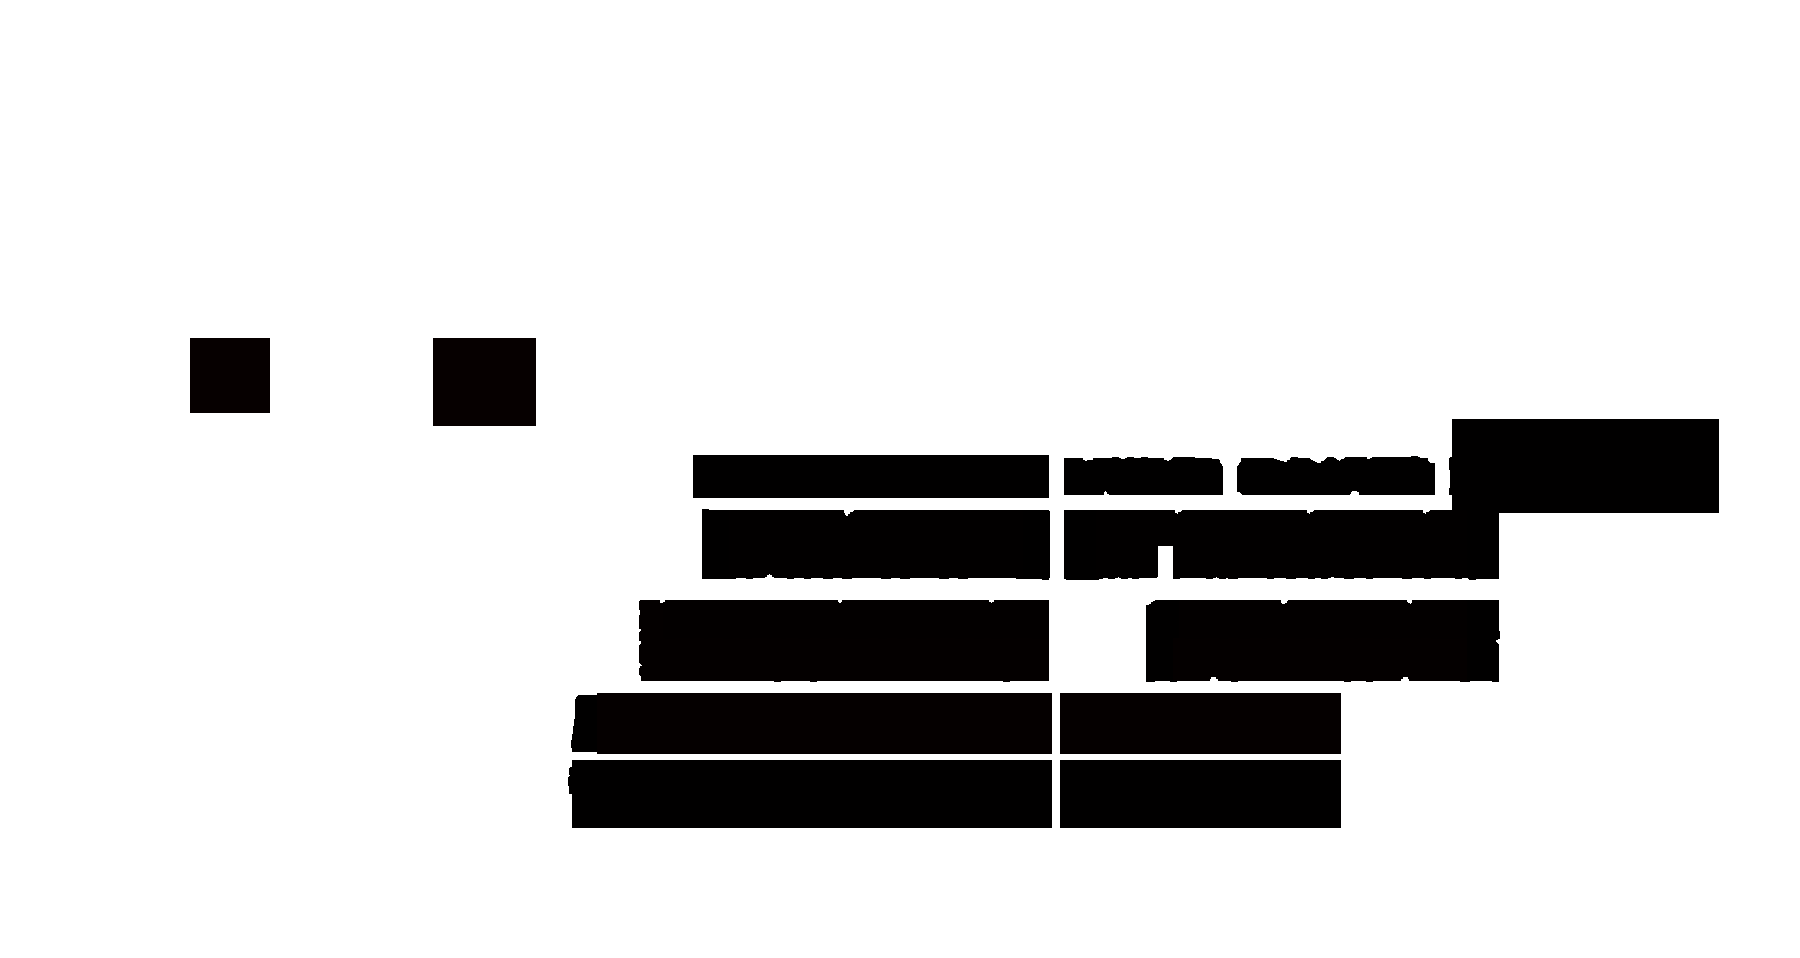
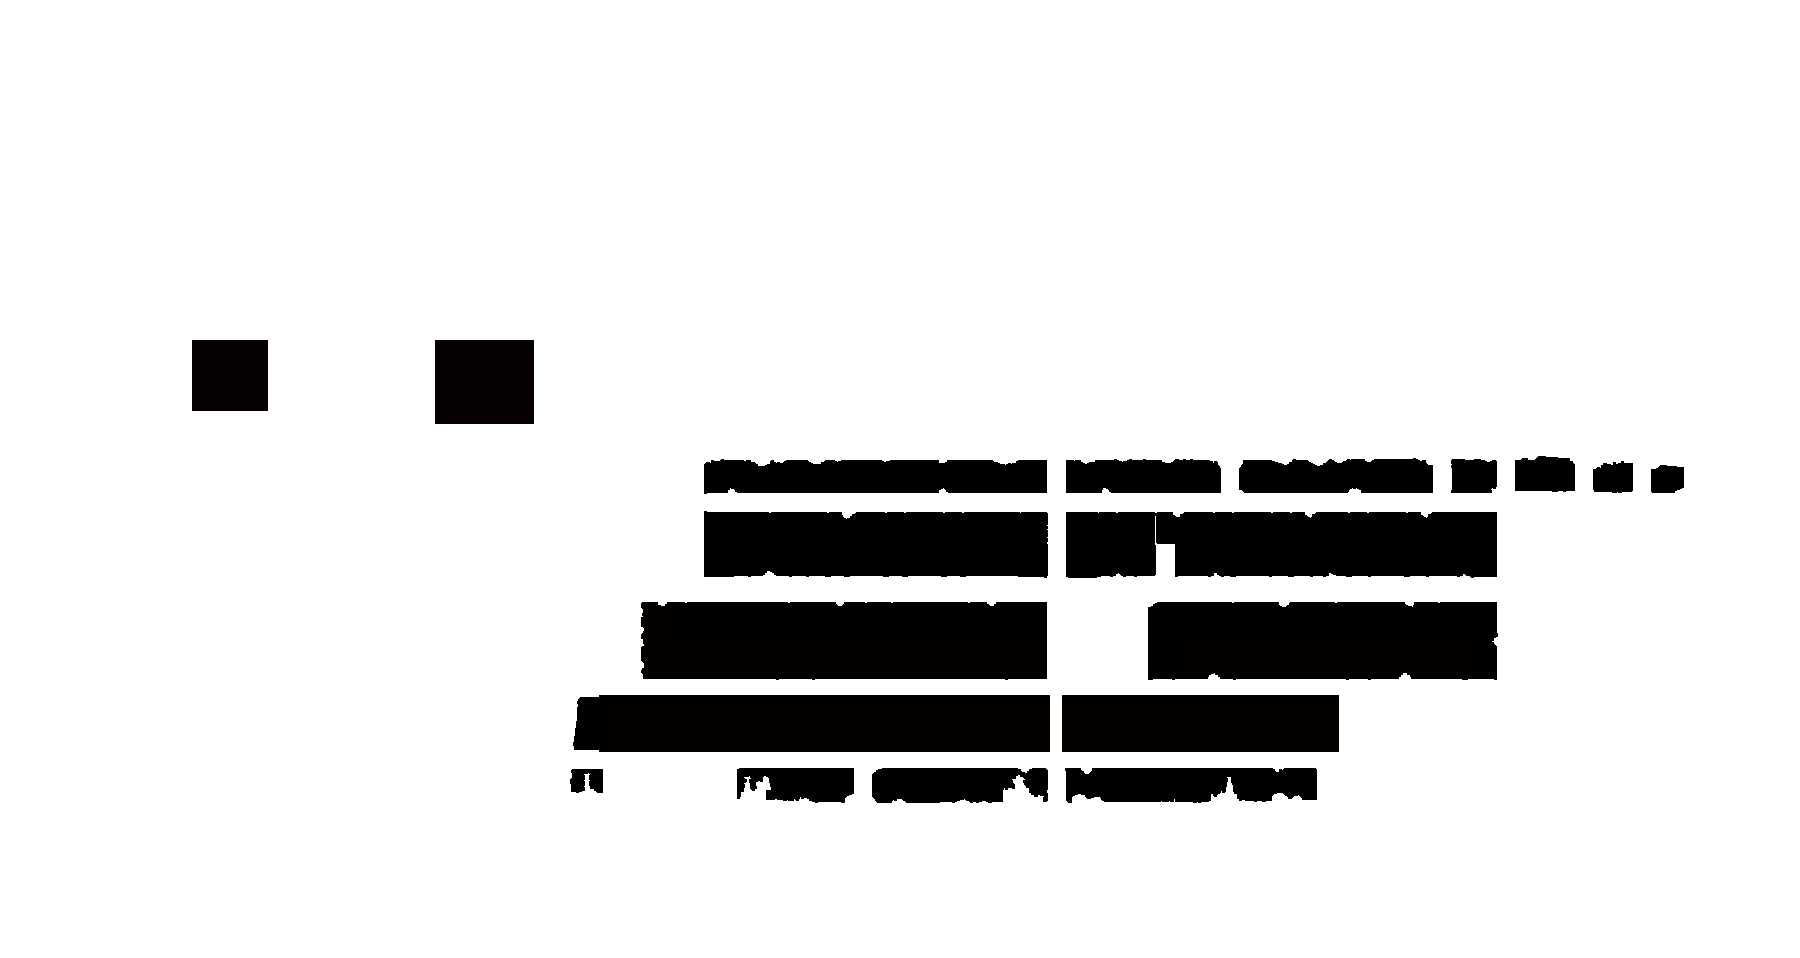
Large content/copy/hover pass across most sections
Intro:
- Force "A life of serenity within." / "A world of possibility
  around." onto separate lines
- Remove the "This is Trivik Courtyard." line
- Bold "At Trivik Courtyard, everything happens around you."

Location:
- Remove "THE LOCATION" eyebrow; "Your world, within minutes."
  is now the sole (black) heading
- "Beerasandra, North Bengaluru" moved below the description
  paragraph as small centred text
- Added a 5th highlight card (15 min -> Manipal Hospital),
  grid now 5-across; dropped "operational" from "ITIR · Foxconn"

Master Plan:
- Removed "THE MASTER PLAN" eyebrow
- Hover/tap reverted to the dim-and-cutout style: the rest of the
  plan dims, the selected category's plots stay fully lit at their
  true colours, no border at all

Gallery: removed the "GALLERY" eyebrow

Clubhouse: eyebrow text changed to "Club Aurum" (matches the
building's own signage), coloured white on the desktop overlay;
stats updated to "40+ Amenities" / "25+ Indoor Amenities"

Amenities: copy updated to "40+ indoor and outdoor spaces..."

Landscape: "Landscape & Avenue Plantation" now matches "Landscape &
Internal Roads" in size; enlarged the caption text overlaid on the
avenue-plantation banner image; removed the "TRIVIK COURTYARD"
eyebrow above "Landscape & Internal Roads"

Specifications: "Our Services" renamed to "Utilities" with a
water-drop icon; reordered its content blocks so "Services" balances
into the left column instead of stacking under "Plumbing" on the
right
[…]

diff --git a/client/src/styles/global.css b/client/src/styles/global.css
@@ -868,19 +868,6 @@ h3 {
   max-width: 1300px;
   margin: 0 auto 30px;
 }
-.loc2-eyebrow {
-  display: inline-block;
-  font-size: clamp(20px, 2.9vw, 45px);
-  font-weight: 700;
-  letter-spacing: 2.4px;
-  text-transform: uppercase;
-  color: var(--brown);
-  margin-bottom: 12px;
-  white-space: nowrap;
-}
-@media (max-width: 1150px) {
-  .loc2-eyebrow { white-space: normal; }
-}
 .loc2-head h3 {
   font-size: 38px;
   font-weight: 600;
@@ -896,10 +883,19 @@ h3 {
   max-width: 560px;
   margin-inline: auto;
 }
+.loc2-subplace {
+  display: block;
+  margin-top: 10px;
+  font-size: 13px;
+  font-weight: 600;
+  letter-spacing: 1.2px;
+  text-transform: uppercase;
+  color: #8a8178;
+}
 
 .loc2-highlights {
   display: grid;
-  grid-template-columns: repeat(4, 1fr);
+  grid-template-columns: repeat(5, 1fr);
   gap: 14px;
   margin-bottom: 30px;
 }
@@ -1497,11 +1493,6 @@ h3 {
 }
 
 .dfl-head { text-align: center; margin-bottom: 2.2em; }
-.dfl-eyebrow {
-  display: inline-block;
-  font-size: 45px; font-weight: 700; letter-spacing: 2.4px;
-  text-transform: uppercase; color: #8b6e4e; margin-bottom: 10px;
-}
 .dfl-head h3 {
   font-size: 38px;
   font-weight: 600; color: #2b2a26; line-height: 1.1; margin-bottom: 8px;
@@ -2058,11 +2049,6 @@ h3 {
   background-color: #F5F4ED;
 }
 .jg-head { text-align: center; margin-bottom: 1.8em; }
-.jg-eyebrow {
-  display: inline-block;
-  font-size: 45px; font-weight: 700; letter-spacing: 2.4px; text-transform: uppercase;
-  color: #8b6e4e; margin-bottom: 10px;
-}
 .jg-head h3 {
   font-size: 38px; font-weight: 600; color: #2b2a26; line-height: 1.15;
 }
@@ -2259,11 +2245,6 @@ h3 {
   max-width: 780px;
   margin: 0 auto 2em;
 }
-.mplan-eyebrow {
-  display: inline-block;
-  font-size: 45px; font-weight: 700; letter-spacing: 2.4px;
-  text-transform: uppercase; color: #8b6e4e; margin-bottom: 10px;
-}
 .mplan-head h3 {
   font-size: 38px;
   font-weight: 600; color: #2b2a26; line-height: 1.12; margin-bottom: 10px;
@@ -2429,7 +2410,7 @@ h3 {
   font-size: 38px; font-weight: 600; line-height: 1.12;
   margin-bottom: 20px;
 }
-.club2-head--desktop .club2-eyebrow { color: #E7D9B4; }
+.club2-head--desktop .club2-eyebrow { color: #fff; }
 .club2-head--desktop h3 { color: #fff; }
 .club2-head--mobile .club2-eyebrow { color: #8b6e4e; }
 .club2-head--mobile h3 { color: #2b2a26; }
@@ -3107,9 +3088,9 @@ h3 {
   margin-bottom: 1.1em;
 }
 .verdant-open-head h3 {
-  font-size: clamp(24px, 2.6vw, 32px);
+  font-size: 38px;
   font-weight: 600;
-  line-height: 1.15;
+  line-height: 1.12;
   color: #2b2a26;
 }
 
@@ -3146,15 +3127,15 @@ h3 {
   color: #fff;
 }
 .verdant-banner-copy h4 {
-  font-size: 15px;
+  font-size: 22px;
   font-weight: 600;
-  line-height: 1.3;
-  margin-bottom: 3px;
+  line-height: 1.25;
+  margin-bottom: 5px;
   color: #fff;
 }
 .verdant-banner-copy p {
   font-family: var(--font);
-  font-size: 12.5px;
+  font-size: 16px;
   line-height: 1.5;
   color: #E6EAD9;
   margin: 0;
@@ -3165,11 +3146,6 @@ h3 {
 }
 
 .verdant-head { text-align: center; margin-bottom: 2.2em; }
-.verdant-eyebrow {
-  display: inline-block;
-  font-size: 45px; font-weight: 700; letter-spacing: 2.4px;
-  text-transform: uppercase; color: #8b6e4e; margin-bottom: 10px;
-}
 .verdant-head h3 {
   font-size: 38px;
   font-weight: 600; color: #2b2a26; line-height: 1.12; margin: 0;
@@ -4658,12 +4634,7 @@ p { font-family: var(--font); }
    section's own (equal-specificity) base rule.
 ============================================================ */
 @media (max-width: 620px) {
-  .loc2-eyebrow,
-  .mplan-eyebrow,
-  .jg-eyebrow,
-  .club2-eyebrow,
-  .verdant-eyebrow,
-  .dfl-eyebrow {
+  .club2-eyebrow {
     font-size: 26px;
   }
   .loc2-head h3,
@@ -4674,13 +4645,4 @@ p { font-family: var(--font); }
   .dfl-head h3 {
     font-size: 22px;
   }
-}
-
-/* Location eyebrow: "Beerasandra, North Bengaluru" breaks onto its own
-   line on phones, same size as "The Location" above it — desktop keeps
-   it all one continuous line at full size. */
-.loc2-eyebrow-br { display: none; }
-@media (max-width: 620px) {
-  .loc2-eyebrow-sub { font-size: 26px; }
-  .loc2-eyebrow-br { display: inline; }
 }

diff --git a/client/src/components/Location.jsx b/client/src/components/Location.jsx
@@ -34,11 +34,19 @@ const CapIcon = () => (
 // Drive times per "Trivik Courtyard — The Master Narrative" (03 · Location).
 // The narrative groups schools and universities at 5–15 min, so the headline
 // figure is the near end of that band, not the 2 min previously shown.
+const HospitalIcon = () => (
+  <svg viewBox="0 0 24 24" width="18" height="18" fill="none" stroke="currentColor" strokeWidth="1.7" strokeLinecap="round" strokeLinejoin="round">
+    <path d="M4 21V8l8-5 8 5v13" />
+    <path d="M9 21v-6h6v6M12 9v4M10 11h4" />
+  </svg>
+)
+
 const HIGHLIGHTS = [
   { icon: <PlaneIcon />, value: 30, unit: 'min', label: 'Kempegowda Intl. Airport' },
-  { icon: <WorkIcon />, value: 5, unit: 'min', label: 'ITIR · Foxconn operational' },
+  { icon: <WorkIcon />, value: 5, unit: 'min', label: 'ITIR · Foxconn' },
   { icon: <CapIcon />, value: 5, unit: 'min', label: 'Leading Schools & Universities' },
   { icon: <RoadIcon />, value: 10, unit: 'min', label: 'Doddaballapur Industrial Area' },
+  { icon: <HospitalIcon />, value: 15, unit: 'min', label: 'Manipal Hospital' },
 ]
 
 // count-up number that animates once its section scrolls into view
@@ -104,18 +112,13 @@ export default function Location() {
         <div className="loc2-stage">
           {/* ── header : centred title, then animated highlight stats ── */}
           <div className="loc2-head">
-            <span className="loc2-eyebrow">
-              The Location{' '}
-              <span className="loc2-eyebrow-sub">
-                Beerasandra,<br className="loc2-eyebrow-br" /> North Bengaluru.
-              </span>
-            </span>
             <h3>Your world, within minutes.</h3>
             <p>
               Trivik Courtyard sits directly on the Satellite Town Ring Road, the artery of North
               Bengaluru’s fastest-growing corridor — schools and universities, workplaces, healthcare
               and the airport, all arranged around the community, minutes in every direction.
             </p>
+            <span className="loc2-subplace">Beerasandra, North Bengaluru</span>
           </div>
 
           <div className="loc2-highlights">

diff --git a/client/src/data/contentData.js b/client/src/data/contentData.js
@@ -28,7 +28,7 @@ export const outdoorItems = [
 export const specsTabs = [
   { key: 'infrastructure-tab', label: 'Infrastructure', img: 'images/clubhouse-entry.webp' },
   { key: 'features-tab', label: 'Green Features', img: 'images/spec-green-features.webp' },
-  { key: 'services-tab', label: 'Our Services', img: 'images/services.webp' },
+  { key: 'services-tab', label: 'Utilities', img: 'images/services.webp' },
 ]
 
 export const specsContent = {
@@ -61,6 +61,15 @@ export const specsContent = {
       ],
     },
     {
+      heading: 'Services',
+      points: [
+        'Sewage Treatment Plant.',
+        'Water Treatment Plant with underground sump tank.',
+        'Organic Waste Convertor.',
+        'DG provided for common services.',
+      ],
+    },
+    {
       heading: 'Plumbing',
       points: [
         'Underground dual water supply system.',
@@ -68,15 +77,6 @@ export const specsContent = {
         'Underground sanitary lines connected to a central STP.',
         'Centralized OHT & UG sump of suitable capacity with adequate head/pressure.',
         'Drip irrigation network for the majority of common landscape areas.',
-      ],
-    },
-    {
-      heading: 'Services',
-      points: [
-        'Sewage Treatment Plant.',
-        'Water Treatment Plant with underground sump tank.',
-        'Organic Waste Convertor.',
-        'DG provided for common services.',
       ],
     },
   ],

diff --git a/client/src/components/Clubhouse.jsx b/client/src/components/Clubhouse.jsx
@@ -1,9 +1,9 @@
 // Figures per the official amenities schedule: 14,000 sq.ft clubhouse,
-// 40 curated amenities in all, 25 of them within the clubhouse itself.
+// 40+ amenities in all, 25+ of them within the clubhouse itself.
 const STATS = [
   { v: '14,000', u: 'sq. ft.', l: 'Clubhouse' },
-  { v: '40', u: 'curated', l: 'Amenities' },
-  { v: '25', u: 'facilities', l: 'Within the club' },
+  { v: '40+', u: '', l: 'Amenities' },
+  { v: '25+', u: '', l: 'Indoor Amenities' },
 ]
 
 export default function Clubhouse() {
@@ -31,7 +31,7 @@ export default function Clubhouse() {
           <div className="club2-content">
             {/* desktop-only heading — overlaid on the image, hero-style */}
             <div className="club2-head club2-head--desktop">
-              <span className="club2-eyebrow">The Clubhouse</span>
+              <span className="club2-eyebrow">Club Aurum</span>
               <h3>The soul of the community.</h3>
             </div>
 
@@ -52,7 +52,7 @@ export default function Clubhouse() {
               {STATS.map((s) => (
                 <div className="club2-stat" key={s.l}>
                   <b>
-                    {s.v} <span>{s.u}</span>
+                    {s.v} {s.u && <span>{s.u}</span>}
                   </b>
                   <em>{s.l}</em>
                 </div>

diff --git a/client/src/components/Experience.jsx b/client/src/components/Experience.jsx
@@ -5,7 +5,7 @@ import { useEffect, useRef, useState } from 'react'
 // then exits back out to the left as the next image takes its place.
 const ITEMS = [
   {
-    img: 'images/dfl-plots.webp',
+    img: 'images/masterplan-layout.webp',
     alt: 'Master layout',
     value: '306',
     label: 'Villa Plots',
@@ -26,7 +26,7 @@ const ITEMS = [
     note: 'Wheelchair-accessible and lift-served.',
   },
   {
-    img: 'images/gallery-park.webp',
+    img: 'images/gallery-amphitheatre.webp',
     alt: 'Amenities',
     value: '40',
     label: 'Amenities',
@@ -34,9 +34,9 @@ const ITEMS = [
   },
   {
     img: 'images/dfl-park.webp',
-    alt: 'Courts',
+    alt: 'Theme Parks',
     value: '4',
-    label: 'Courts',
+    label: 'Theme Parks',
     note: 'Green, Play, Zen and Bloom.',
   },
 ]
@@ -117,7 +117,6 @@ export default function Experience() {
     <section className="experience-section dfl" id="experience" ref={rootRef}>
       <div className="container">
         <div className="dfl-head">
-          <span className="dfl-eyebrow">The Development</span>
           <h3>Designed for life.</h3>
           <p>Experience the luxury of ease.</p>
         </div>

diff --git a/client/src/components/Intro.jsx b/client/src/components/Intro.jsx
@@ -4,7 +4,10 @@ export default function Intro() {
     <section className="intro-section fade-up">
       <div className="container">
         <div className="intro-content">
-          <h3>A life of serenity within. A world of possibility around.</h3>
+          <h3>
+            A life of serenity within.<br />
+            A world of possibility around.
+          </h3>
           <p>
             Waking to birdsong and the hush of tree-lined avenues. Mornings that wander past gardens
             and a forest growing a little taller every day, with your children. Beyond the gates, the
@@ -14,8 +17,7 @@ export default function Intro() {
             life can be.
           </p>
           <p>
-            This is Trivik Courtyard. <br />
-            At Trivik Courtyard, everything happens around you.
+            <b>At Trivik Courtyard, everything happens around you.</b>
           </p>
         </div>
       </div>

diff --git a/client/src/components/Specifications.jsx b/client/src/components/Specifications.jsx
@@ -6,9 +6,9 @@ const RoadIcon = () => (
     <path d="M8 3 5 21M16 3l3 18M12 4v2M12 10v2M12 16v2" />
   </svg>
 )
-const BoltIcon = () => (
+const DropIcon = () => (
   <svg viewBox="0 0 24 24" width="17" height="17" fill="none" stroke="currentColor" strokeWidth="1.7" strokeLinecap="round" strokeLinejoin="round">
-    <path d="M13 2 4 14h7l-1 8 9-12h-7l1-8Z" />
+    <path d="M12 3c4 5 7 8.5 7 12a7 7 0 0 1-14 0c0-3.5 3-7 7-12Z" />
   </svg>
 )
 const LeafIcon = () => (
@@ -17,7 +17,7 @@ const LeafIcon = () => (
     <path d="M4 21c3-6 6.5-9 12-11" />
   </svg>
 )
-const ICONS = { 'infrastructure-tab': <RoadIcon />, 'services-tab': <BoltIcon />, 'features-tab': <LeafIcon /> }
+const ICONS = { 'infrastructure-tab': <RoadIcon />, 'services-tab': <DropIcon />, 'features-tab': <LeafIcon /> }
 
 export default function Specifications() {
   const [tab, setTab] = useState(specsTabs[0].key)

diff --git a/client/src/components/Amenities.jsx b/client/src/components/Amenities.jsx
@@ -200,7 +200,7 @@ export default function Amenities() {
           <h3>Layers of luxury.</h3>
           <p>
             Amenities here aren’t a list to be counted — they’re the moments of a day, designed with care.
-            40 curated indoor and outdoor spaces for play, wellness and belonging.
+            40+ indoor and outdoor spaces for play, wellness and belonging.
           </p>
         </div>
 

diff --git a/client/src/components/MasterPlan.jsx b/client/src/components/MasterPlan.jsx
@@ -6,7 +6,6 @@ export default function MasterPlan() {
     <section className="mplan-section" id="master_plan">
       <div className="container">
         <div className="mplan-head">
-          <span className="mplan-eyebrow">The Master Plan</span>
           <h3>Thoughtfully zoned, acre by acre.</h3>
           <p>
             306 Vaastu-compliant villa plots from 1,200 – 2,400 sq.ft, gathered around gardens,

diff --git a/client/src/components/Gallery.jsx b/client/src/components/Gallery.jsx
@@ -120,7 +120,6 @@ export default function Gallery() {
     <section className="gallery-section" id="gallery">
       <div className="container">
         <div className="jg-head">
-          <span className="jg-eyebrow">Gallery</span>
           <h3>A world where your story takes shape.</h3>
         </div>
 

diff --git a/client/src/components/Landscape.jsx b/client/src/components/Landscape.jsx
@@ -28,7 +28,6 @@ export default function Landscape() {
         </div>
 
         <div className="verdant-head">
-          <span className="verdant-eyebrow">Trivik Courtyard</span>
           <h3>Landscape &amp; Internal Roads</h3>
         </div>
 
